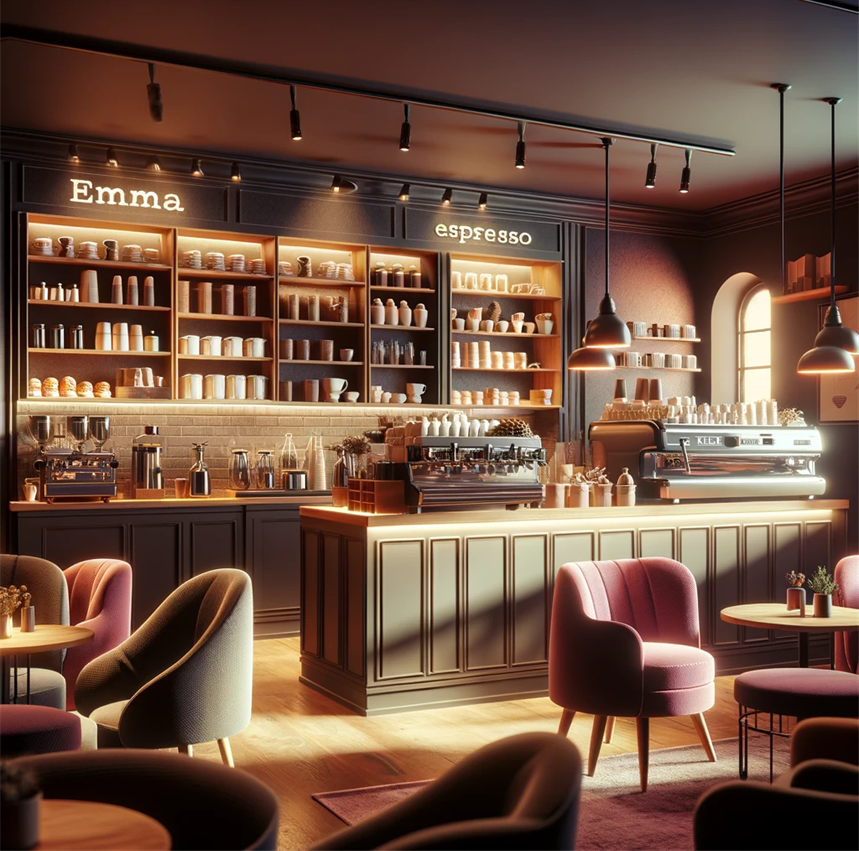
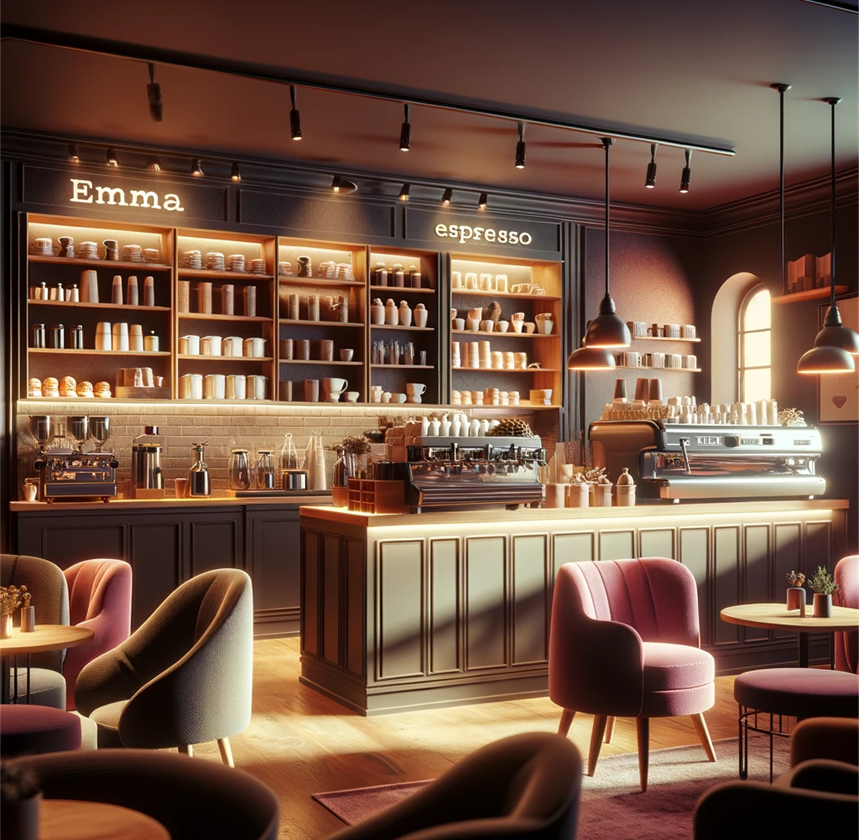
31.03.2025
Add projects to the main page.

diff --git a/index.html b/index.html
@@ -439,14 +439,14 @@
           <ul class="portfolio-filters isotope-filters" data-aos="fade-up" data-aos-delay="100">
             <li data-filter="*" class="filter-active">All</li>
             <li data-filter=".filter-app">App</li>
-            <li data-filter=".filter-app">Game</li>
+            <li data-filter=".filter-product">Game</li>
             <li data-filter=".filter-branding">Web</li>
           </ul><!-- End Portfolio Filters -->
 
           <div class="row gy-4 isotope-container" data-aos="fade-up" data-aos-delay="200">
 
             <div class="col-lg-4 col-md-6 portfolio-item isotope-item filter-branding">
-              <img src="assets/img/portfolio/kahvila.png" class="img-fluid" alt="">
+              <img src="assets/img/portfolio/kahvila.png" class="img-portfolio" alt="">
               <div class="portfolio-info">
                 <h4>Web page</h4>
                 <p>"Emma Espresso"</p>
@@ -455,27 +455,27 @@
               </div>
             </div><!-- End Portfolio Item -->
 
-            <!--<div class="col-lg-4 col-md-6 portfolio-item isotope-item filter-product">
-              <img src="assets/img/masonry-portfolio/masonry-portfolio-2.jpg" class="img-fluid" alt="">
+            <div class="col-lg-4 col-md-6 portfolio-item isotope-item filter-product">
+              <img src="assets/img/portfolio/paeta1.png" class="img-portfolio" alt="">
               <div class="portfolio-info">
-                <h4>Product 1</h4>
-                <p>Lorem ipsum, dolor sit</p>
-                <a href="assets/img/masonry-portfolio/masonry-portfolio-2.jpg" title="Product 1" data-gallery="portfolio-gallery-product" class="glightbox preview-link"><i class="bi bi-zoom-in"></i></a>
+                <h4>Game</h4>
+                <p>"Escape from laboratory"</p>
+                <a href="assets/img/portfolio/paeta1.png" title="Escape from laboratory" data-gallery="portfolio-gallery-app" class="glightbox preview-link"><i class="bi bi-zoom-in"></i></a>
                 <a href="portfolio-details.html" title="More Details" class="details-link"><i class="bi bi-link-45deg"></i></a>
               </div>
-            </div><!-- End Portfolio Item --
-
-            <div class="col-lg-4 col-md-6 portfolio-item isotope-item filter-branding">
-              <img src="assets/img/masonry-portfolio/masonry-portfolio-3.jpg" class="img-fluid" alt="">
-              <div class="portfolio-info">
-                <h4>Branding 1</h4>
-                <p>Lorem ipsum, dolor sit</p>
-                <a href="assets/img/masonry-portfolio/masonry-portfolio-3.jpg" title="Branding 1" data-gallery="portfolio-gallery-branding" class="glightbox preview-link"><i class="bi bi-zoom-in"></i></a>
-                <a href="portfolio-details.html" title="More Details" class="details-link"><i class="bi bi-link-45deg"></i></a>
-              </div>
-            </div><!-- End Portfolio Item --
+            </div><!-- End Portfolio Item -->
 
             <div class="col-lg-4 col-md-6 portfolio-item isotope-item filter-app">
+              <img src="assets/img/portfolio/todo1.png" class="img-portfolio" alt="">
+              <div class="portfolio-info">
+                <h4>Application</h4>
+                <p>"ToDoList"</p>
+                <a href="assets/img/portfolio/todo1.png" title="ToDoList" data-gallery="portfolio-gallery-app" class="glightbox preview-link"><i class="bi bi-zoom-in"></i></a>
+                <a href="portfolio-details.html" title="More Details" class="details-link"><i class="bi bi-link-45deg"></i></a>
+              </div>
+            </div><!-- End Portfolio Item -->
+
+            <!--<div class="col-lg-4 col-md-6 portfolio-item isotope-item filter-app">
               <img src="assets/img/masonry-portfolio/masonry-portfolio-4.jpg" class="img-fluid" alt="">
               <div class="portfolio-info">
                 <h4>App 2</h4>

diff --git a/assets/css/main.css b/assets/css/main.css
@@ -979,6 +979,11 @@ section,
   overflow: hidden;
 }
 
+.img-portfolio {
+  height: 400px;
+  width: 415px;
+}
+
 .portfolio .portfolio-item .portfolio-info {
   opacity: 0;
   position: absolute;
